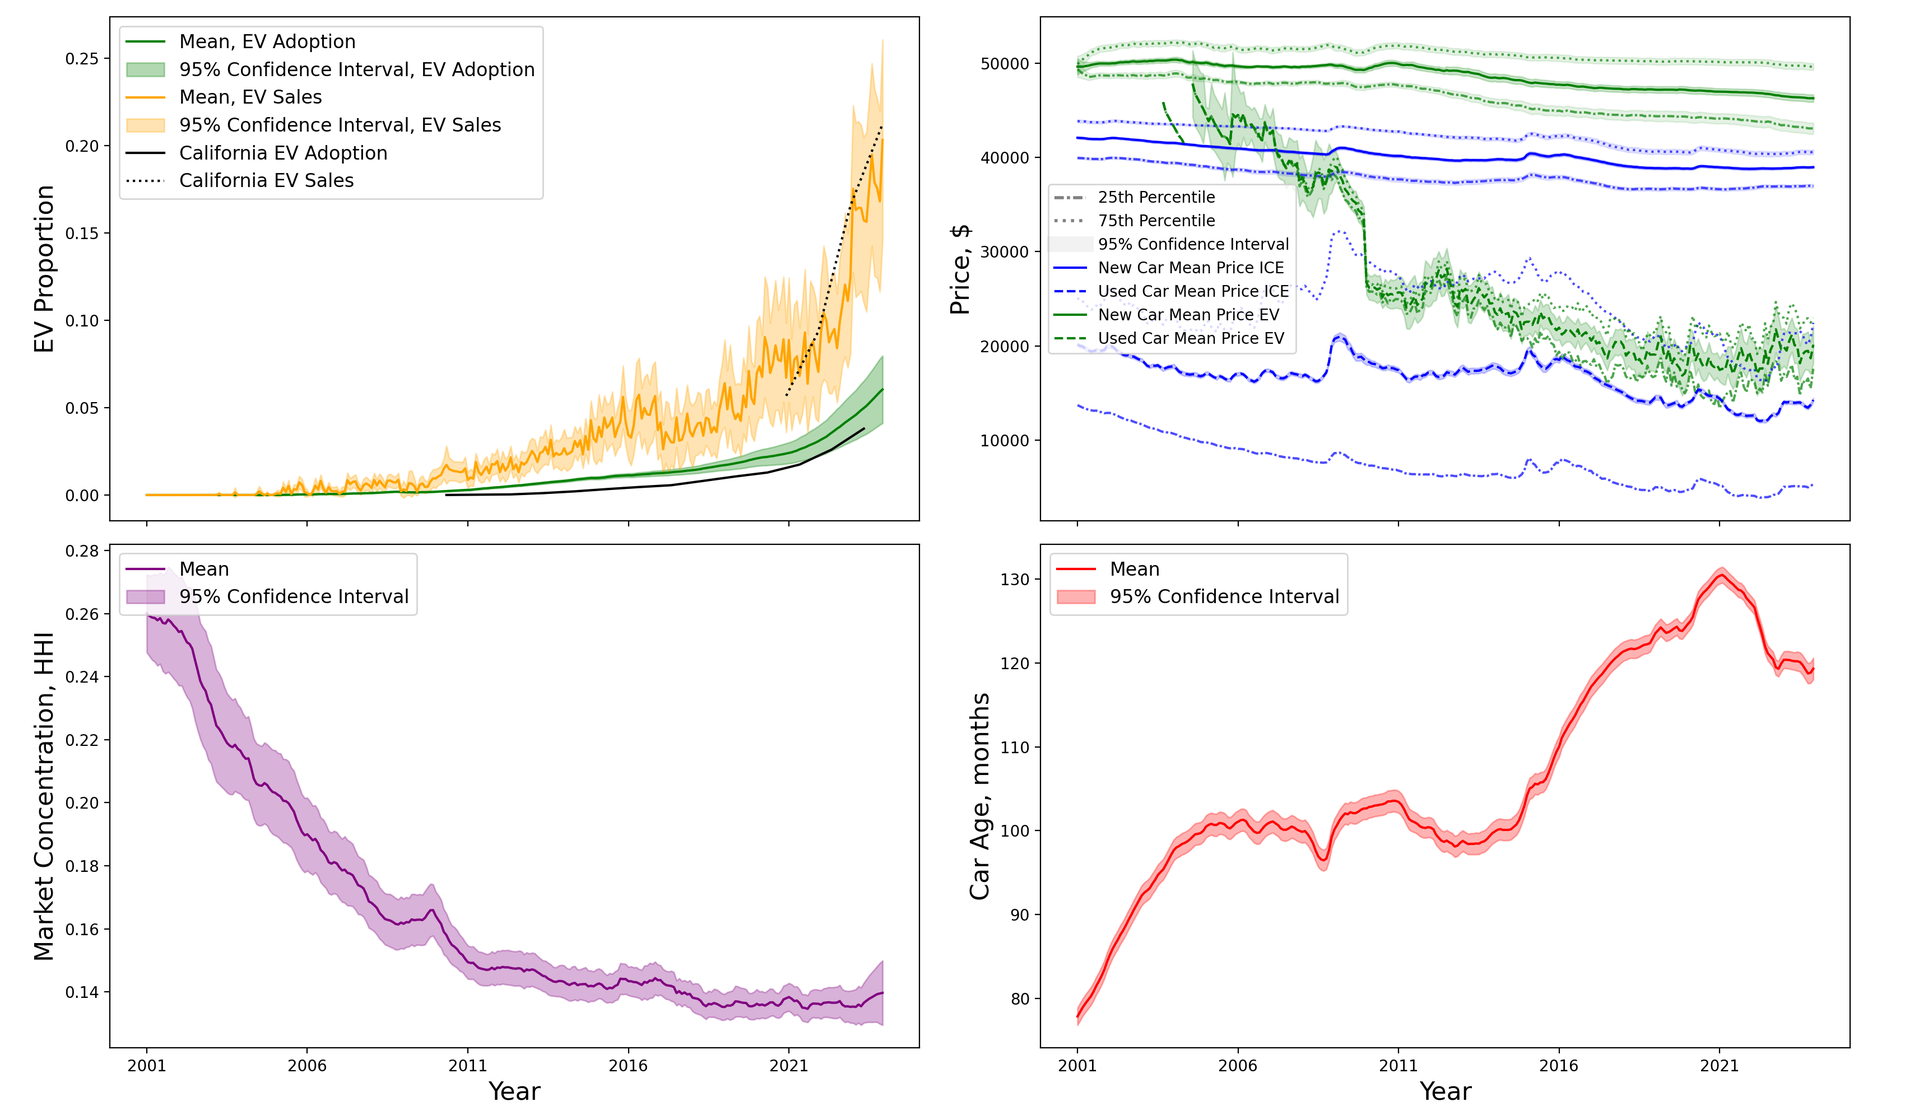
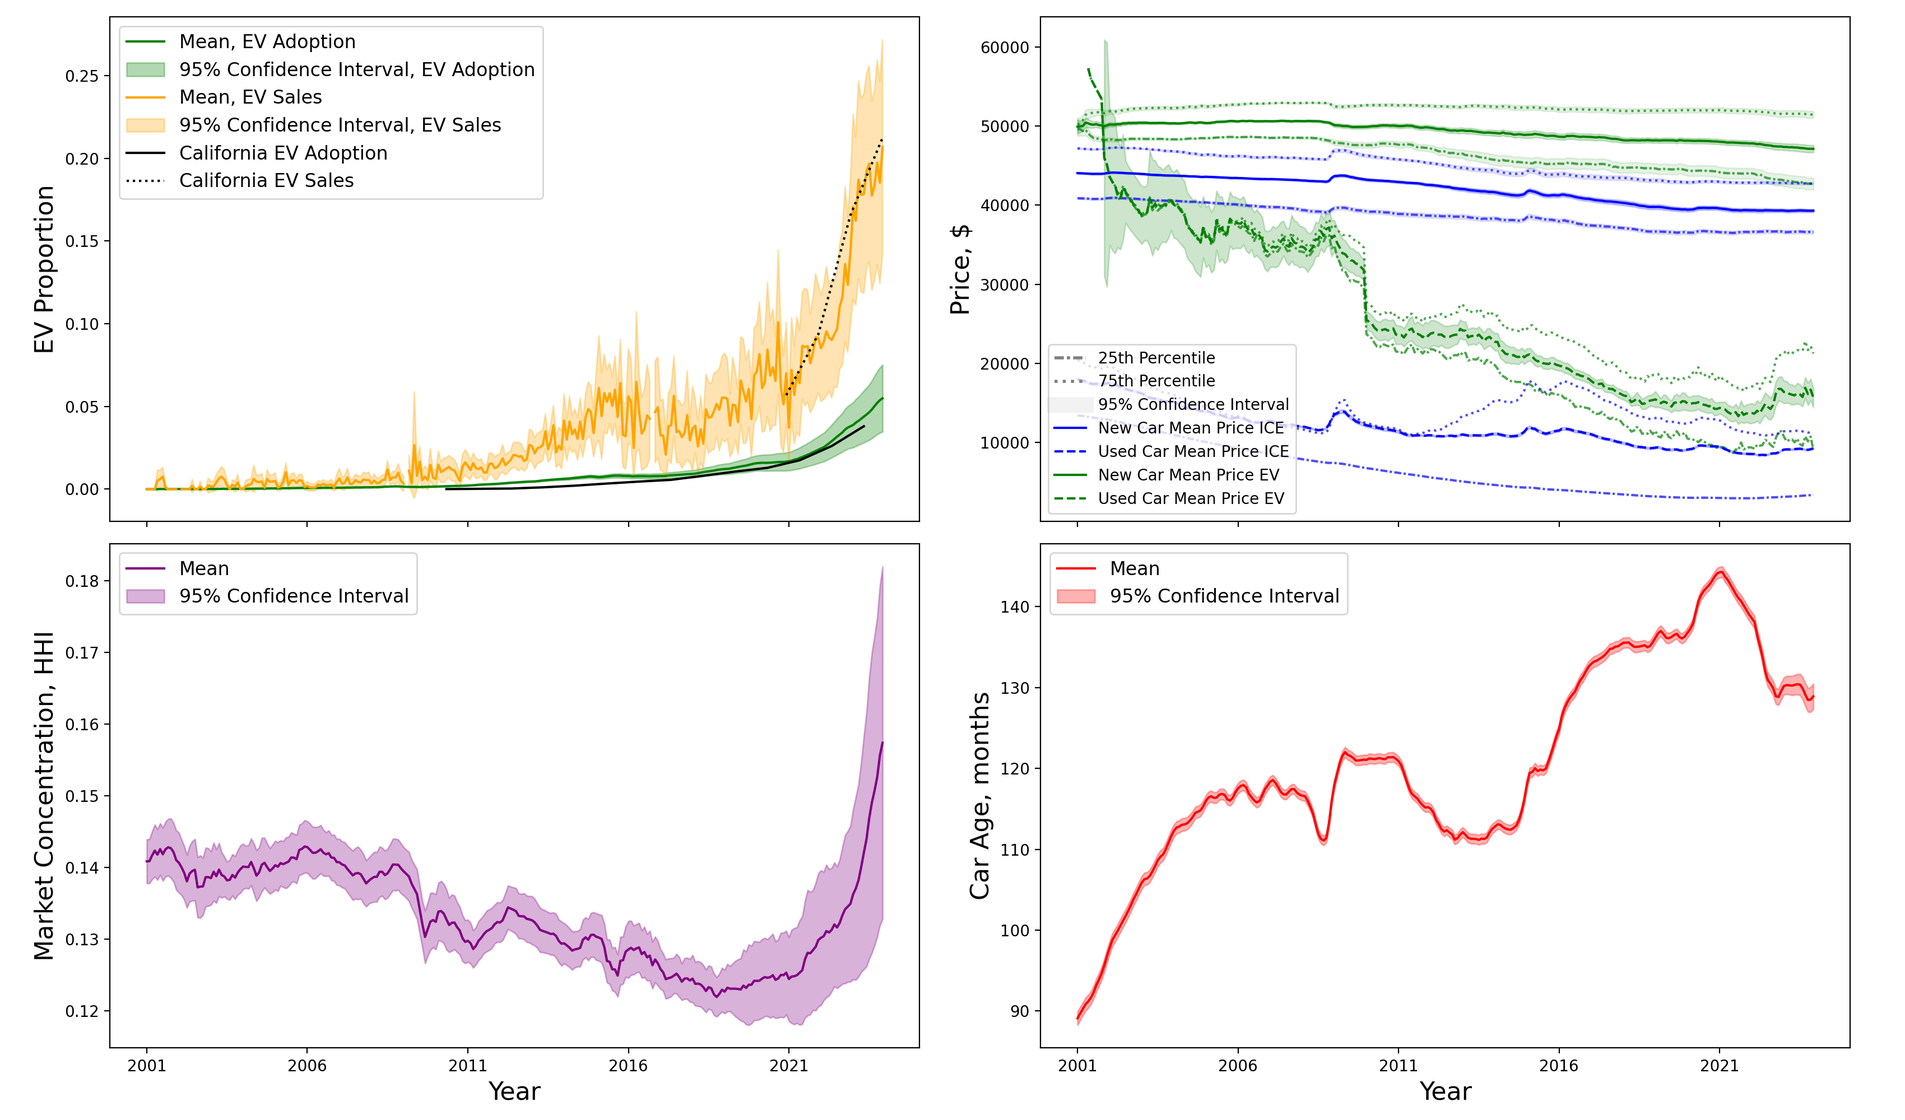
correcting beta, but tis still wrong

diff --git a/package/plotting_data/single_experiment_plot.py b/package/plotting_data/single_experiment_plot.py
@@ -33,6 +33,42 @@ def save_and_show(fig, fileName, plot_name, dpi=300, annotation_height_prop= [0.
     ensure_directory_exists(save_path)
     fig.savefig(f"{save_path}/{plot_name}.png", dpi=dpi, format="png")
 
+# Income deciles are an ORDERED group, so they get a sequential single-hue ramp
+# light (poorest) to dark (richest), not a categorical or rainbow scale: the
+# reader has to be able to see the income gradient itself, not just tell the
+# lines apart. The range is clipped away from the extremes of the ramp so the
+# lightest line stays visible on white and the darkest is not pure black.
+INCOME_DECILE_CMAP = "Blues"
+INCOME_DECILE_RAMP_RANGE = (0.28, 0.95)
+
+
+def income_decile_colours(num_deciles):
+    """Sequential colours for the income deciles, poorest (light) first."""
+    cmap = plt.get_cmap(INCOME_DECILE_CMAP)
+    return [cmap(x) for x in np.linspace(*INCOME_DECILE_RAMP_RANGE, num_deciles)]
+
+
+def get_ev_adoption_by_income_decile(base_params, social_network, time_series):
+    """
+    EV adoption rate per income decile over the post-burn-in period.
+
+    Returns:
+        tuple: (time axis, (T x num_deciles) array with the poorest decile in
+        column 0), or (None, None) when the run predates the income-decile
+        series, so callers can fall back or skip rather than raise.
+    """
+    history = getattr(social_network, "history_ev_adoption_rate_income_decile", None)
+    if not history:
+        return None, None
+
+    decile_series = np.asarray(history)[base_params["duration_burn_in"]:]
+    # Trim to the shorter of the two: the time axis is derived from the
+    # controller's own series, and a run saved with a different compression
+    # factor need not match it exactly.
+    n = min(len(time_series), len(decile_series))
+    return time_series[:n], decile_series[:n]
+
+
 def add_vertical_lines(ax, base_params, color='black', linestyle='--', annotation_height_prop=[0.2, 0.2, 0.2, 0.2]):
     burn_in = base_params["duration_burn_in"]
     no_carbon_price = base_params["duration_calibration"]
@@ -138,8 +174,21 @@ def plot_ev_consider_adoption_bought_rate(base_params,social_network, firm_manag
     ax.plot(time_yearly,EV_stock_prop_2010_23, label = "California data", linestyle= "dashed", color = "orange")
     ax.plot(time_series, social_network.history_consider_ev_rate[base_params["duration_burn_in"]:], label = "Consider", color = "blue")
     ax.plot(time_series, social_network.history_ev_adoption_rate[base_params["duration_burn_in"]:], label = "Adopt", color = "green")
-    ax.plot(time_series, social_network.history_ev_adoption_rate_top[base_params["duration_burn_in"]:], label = "Adopt Rich", color = "orange")
-    ax.plot(time_series, social_network.history_ev_adoption_rate_bottom[base_params["duration_burn_in"]:], label = "Adopt Poor", color = "black")
+    # Rich and poor by INCOME decile rather than by beta percentile. The two
+    # lines are the ends of the same sequential ramp used by
+    # plot_ev_adoption_by_income_decile, so light reads as poor and dark as rich
+    # consistently across the two figures. See that function for all ten.
+    decile_time, decile_series = get_ev_adoption_by_income_decile(base_params, social_network, time_series)
+    if decile_series is not None:
+        num_deciles = decile_series.shape[1]
+        end_colours = income_decile_colours(num_deciles)
+        ax.plot(decile_time, decile_series[:, -1], label = f"Adopt richest {100//num_deciles}%", color = end_colours[-1])
+        ax.plot(decile_time, decile_series[:, 0], label = f"Adopt poorest {100//num_deciles}%", color = end_colours[0])
+    else:
+        # Pre-income-decile run: fall back to the beta-percentile series, which
+        # are top decile of beta vs bottom HALF of beta, not deciles.
+        ax.plot(time_series, social_network.history_ev_adoption_rate_top[base_params["duration_burn_in"]:], label = "Adopt Rich (high $\\beta$)", color = "orange")
+        ax.plot(time_series, social_network.history_ev_adoption_rate_bottom[base_params["duration_burn_in"]:], label = "Adopt Poor (low $\\beta$)", color = "black")
     #ax.plot(time_series, firm_manager.history_past_new_bought_vehicles_prop_ev[base_params["duration_burn_in"]:], label = "New cars monthly", color = "grey", linestyle = "--")
     
     # Extract the relevant data after burn-in period
@@ -161,6 +210,61 @@ def plot_ev_consider_adoption_bought_rate(base_params,social_network, firm_manag
     ax.legend()
     format_plot(ax, "EV Adoption Rate Over Time", "Time Step", "EV Adoption Rate", legend=False)
     save_and_show(fig, fileName, "plot_ev_consider_adoption_bought_rate", dpi)
+
+
+def plot_ev_adoption_by_income_decile(base_params, social_network, time_series, fileName, dpi=300, annotation_height_prop= [0.5, 0.5, 0.5]):
+    """
+    EV adoption rate within each income decile, poorest (light) to richest (dark).
+
+    The point of the figure is the SIGN OF THE GRADIENT: if the dark lines sit
+    below the light ones, richer users are adopting less than poorer ones. Ten
+    ordered groups get a sequential single-hue ramp and a colourbar rather than a
+    ten-entry legend, with the two end deciles labelled directly so identity is
+    never carried by colour alone.
+    """
+    decile_time, decile_series = get_ev_adoption_by_income_decile(base_params, social_network, time_series)
+    if decile_series is None:
+        print("No income-decile EV adoption data on this run, skipping plot_ev_adoption_by_income_decile.")
+        return
+
+    num_deciles = decile_series.shape[1]
+    colours = income_decile_colours(num_deciles)
+
+    fig, ax = plt.subplots(figsize=(10, 6))
+    for d in range(num_deciles):
+        ax.plot(decile_time, decile_series[:, d], color=colours[d], linewidth=2)
+
+    # Direct labels on the two ends, at their own final value. Label text is ink
+    # rather than the series colour: the lightest step is legible as a 2px line
+    # but not as 9pt text on white, and the line it sits against carries the
+    # identity anyway. clip_on=False so the text survives outside the axes.
+    for d, text in ((0, "poorest 10%"), (num_deciles - 1, "richest 10%")):
+        ax.annotate(
+            text,
+            xy=(decile_time[-1], decile_series[-1, d]),
+            xytext=(5, 0), textcoords="offset points",
+            va="center", ha="left", fontsize=9, color="#333333", clip_on=False,
+        )
+
+    # Colourbar as the legend for the ordered groups.
+    scalar_map = cm.ScalarMappable(
+        cmap=mcolors.ListedColormap(colours),
+        norm=mcolors.Normalize(vmin=0.5, vmax=num_deciles + 0.5),
+    )
+    cbar = fig.colorbar(scalar_map, ax=ax, ticks=[1, num_deciles])
+    cbar.set_label("Income decile")
+    cbar.ax.set_yticklabels(["1 (poorest)", f"{num_deciles} (richest)"])
+
+    add_vertical_lines(ax, base_params, annotation_height_prop=annotation_height_prop)
+    format_plot(ax, "EV Adoption Rate by Income Decile", "Time Step", "EV Adoption Rate", legend=False)
+    # Room on the right for the direct labels, set on the axis rather than via
+    # margins so it is not eaten by the colourbar's share of the figure width.
+    x_first, x_last = decile_time[0], decile_time[-1]
+    x_span = x_last - x_first
+    # Small left pad too, so the burn-in marker's rotated label does not sit on
+    # top of the y axis.
+    ax.set_xlim(x_first - 0.03*x_span, x_last + 0.16*x_span)
+    save_and_show(fig, fileName, "plot_ev_adoption_by_income_decile", dpi)
 
 
 def plot_prop_EV_on_sale(base_params,firm_manager, fileName, dpi=300, annotation_height_prop= [0.5, 0.5, 0.5]):
@@ -2024,6 +2128,7 @@ def main(fileName, dpi=300):
     EV_stock_prop_2010_23 = calibration_data_output["EV Prop"]
 
     plot_ev_consider_adoption_bought_rate(base_params, social_network,firm_manager, time_series, fileName, EV_stock_prop_2010_23, dpi)
+    plot_ev_adoption_by_income_decile(base_params, social_network, time_series, fileName, dpi)
     plot_total_utility(base_params,social_network, time_series, fileName, dpi)
     plot_history_count_buy_ratio(base_params, social_network, fileName, dpi, annotation_height_prop=[0.5, 0.5, 0.5])
     plot_history_car_age(base_params, social_network, time_series,fileName, dpi)

diff --git a/package/model/controller.py b/package/model/controller.py
@@ -318,11 +318,15 @@ class Controller:
         #BETA
         self.gen_beta()
 
-        self.parameters_social_network["beta_vec"] = self.beta_vec 
-        self.parameters_social_network["gamma_vec"] = self.gamma_vec 
-        self.parameters_social_network["chi_vec"] = self.chi_vec 
-        self.parameters_social_network["nu_vec"] = self.nu_vec 
+        self.parameters_social_network["beta_vec"] = self.beta_vec
+        self.parameters_social_network["gamma_vec"] = self.gamma_vec
+        self.parameters_social_network["chi_vec"] = self.chi_vec
+        self.parameters_social_network["nu_vec"] = self.nu_vec
         self.parameters_social_network["d_vec"] = self.d_vec
+        # Aligned with beta_vec agent-for-agent (see gen_beta). Used only for
+        # reporting distributional outcomes by income decile; nothing in the
+        # choice or pricing logic reads it, so it changes no model behaviour.
+        self.parameters_social_network["income_vec"] = self.income_vec
 
         self.beta_median = np.median(self.beta_vec)
         self.gamma_median = np.median(self.gamma_vec)
@@ -438,17 +442,53 @@ class Controller:
 
     def gen_beta(self):
         """
-        Generate beta_vec reflecting consumer quality sensitivity based on income.
-        Inverse relationship to income distribution drawn from a log-normal.
+        Generate beta_vec, the dollar willingness to pay for car quality, from
+        the income distribution drawn from a log-normal.
+
+        beta_i is PROPORTIONAL to income: beta_i/median_beta = income_i/median_income,
+        so a richer agent has a higher willingness to pay for quality. This is
+        the mapping the manuscript specifies (Section "Calibration": "we
+        distribute this value according to the Californian income distribution,
+        assigning a higher willingness to pay to richer agents"; Table of
+        parameters: "greater beta is richer car user"; supplementary: "in such
+        a way that the same proportion is maintained").
+
+        This previously computed the reciprocal, median_income/income_i, which
+        assigned the HIGHEST quality willingness to pay to the POOREST agents.
+        Note that it was a no-op for every model output: `incomes` is local and
+        income enters the model nowhere else, beta_vec is shuffled below so even
+        the ordering link to the income draw is discarded, and the reciprocal of
+        a log-normal is log-normal with the same sigma -- so both forms draw
+        beta_vec from the same distribution, and "rich" in the outputs is
+        defined as high beta (see socialNetworkUsers.beta_rich) rather than as
+        high income. Results therefore differ only by Monte Carlo noise. The
+        point of the change is that the individual-level mapping now matches
+        the documented one, which any later income-correlated parameter (nu,
+        gamma, d) needs in order to carry the right sign.
         """
         #BETA
         self.beta_multiplier = self.parameters_social_network.get("beta_multiplier", 1)#PURPOSE IS TO TEST THE ROLE OF BETA DISTRIBUTIONS
-        median_beta = self.calc_beta_median()*self.beta_multiplier 
-        #GIVEN THAT YOU DO MEDIAN INCOME/ INCOME, DONT NEED TO SCALE INCOME
+        median_beta = self.calc_beta_median()*self.beta_multiplier
+        #GIVEN THAT YOU DO INCOME/MEDIAN INCOME, DONT NEED TO SCALE INCOME
         incomes = lognorm.rvs(s=self.parameters_social_network["income_sigma"], scale=np.exp(self.parameters_social_network["income_mu"]), size=self.num_individuals, random_state=self.random_state_inputs)
         median_income = np.median(incomes)
-        self.beta_vec = median_beta*(median_income/incomes)
-        self.random_state_inputs.shuffle(self.beta_vec)# Shuffle to randomize the order of agents
+        beta_unshuffled = median_beta*(incomes/median_income)
+
+        # Shuffle to randomise the order of agents, i.e. to decorrelate beta
+        # from an agent's index and so from its position in the social network.
+        # Drawn as an explicit permutation rather than shuffling beta_vec in
+        # place so that the SAME permutation can be applied to incomes, leaving
+        # income_vec[i] as the income of the agent whose quality willingness to
+        # pay is beta_vec[i]. Without this the income draw is discarded and
+        # there is no agent-level income to report distributional outcomes on.
+        # RandomState.permutation(n) is arange(n) followed by the same
+        # Fisher-Yates pass that shuffle() performs, and a shuffle is a pure
+        # permutation of positions independent of the array's contents, so
+        # beta_vec is bit-for-bit what the in-place shuffle produced and the
+        # random stream is left in exactly the same state.
+        perm = self.random_state_inputs.permutation(self.num_individuals)
+        self.beta_vec = beta_unshuffled[perm]
+        self.income_vec = incomes[perm]
 
         self.num_beta_segments = self.parameters_firm_manager["num_beta_segments"]
         # Calculate the bin edges using quantiles
@@ -463,12 +503,16 @@ class Controller:
         """
         Generate a list of beta values for n agents based on quintile incomes.
         Beta for each quintile is calculated as:
-            beta = 1 * (lowest_quintile_income / quintile_income)
-        
+            beta = median_beta * (quintile_income / median_quintile_income)
+
+        Proportional to income, i.e. the same mapping as gen_beta -- see the
+        note in that method's docstring. Currently unused; kept in sync so it
+        cannot reintroduce the inverted mapping if it is ever called.
+
         Args:
             n (int): Total number of agents.
             quintile_incomes (list): List of incomes for each quintile (from lowest to highest).
-            
+
         Returns:
             list: A list of beta values of length n.
         """
@@ -476,7 +520,7 @@ class Controller:
 
         median_income = quintile_incomes[2]
 
-        beta_vals = [median_beta*median_income/income for income in quintile_incomes]
+        beta_vals = [median_beta*income/median_income for income in quintile_incomes]
         
         # Assign proportions for each quintile (evenly split 20% each)
         proportions = [0.2] * len(quintile_incomes)

diff --git a/package/model/socialNetworkUsers.py b/package/model/socialNetworkUsers.py
@@ -14,6 +14,10 @@ from package.model.secondHandMerchant import _attr_array
 # ranges could ever legitimately produce.
 MAX_LIFECYCLE_COST_TERM = 1e8
 
+# Number of income groups used for distributional reporting. See
+# Social_Network.init_income_deciles.
+NUM_INCOME_DECILES = 10
+
 class Social_Network:
     def __init__(self, parameters_social_network: dict, parameters_vehicle_user: dict):
         """
@@ -42,6 +46,12 @@ class Social_Network:
         self.nu_vec = parameters_social_network["nu_vec"]
 
         self.d_vec = parameters_social_network["d_vec"]
+
+        # Agent income, aligned with beta_vec (see controller.gen_beta). Read
+        # only for distributional reporting -- no choice or pricing logic uses
+        # it. Optional so that parameter dicts written before it existed still
+        # load; the income-decile time series are then simply not recorded.
+        self.income_vec = parameters_social_network.get("income_vec", None)
 
         self.alpha = parameters_social_network["alpha"]
         self.zeta = parameters_social_network["zeta"]
@@ -72,6 +82,8 @@ class Social_Network:
         self.num_rich = self.num_individuals*0.1
 
         self.gamma_median = np.median(self.gamma_vec)
+
+        self.init_income_deciles()
 
         self.emissions_cumulative = 0
         self.emissions_cumulative_production = 0
@@ -144,6 +156,39 @@ class Social_Network:
         self.save_timeseries_data_state = parameters_social_network["save_timeseries_data_state"]
         self.compression_factor_state = parameters_social_network["compression_factor_state"]
         self.carbon_price =  parameters_social_network["carbon_price"]
+
+    def init_income_deciles(self):
+        """
+        Partition the population into income deciles for distributional reporting.
+
+        Builds self.income_decile_idx, a list of NUM_INCOME_DECILES index arrays
+        ordered poorest first, so decile 0 is the bottom 10% of incomes and
+        decile 9 the top 10%. Computed once: income is fixed for the whole run.
+
+        Deciles are cut on the empirical quantiles of income_vec and assigned
+        with searchsorted, so the group sizes are equal up to ties and up to
+        num_individuals not dividing by ten exactly.
+
+        This replaces beta percentiles as the basis for "rich" and "poor" in the
+        reported adoption series. beta is a willingness to pay for quality that
+        happens to be proportional to income (controller.gen_beta), so ranking
+        on it gives the same ordering today, but it would stop doing so the
+        moment any other parameter is made income-dependent, or beta is given
+        an idiosyncratic taste component. Income is the primitive, so report on
+        income.
+
+        Sets self.income_decile_idx to None when no income_vec was supplied,
+        which the recording path checks.
+        """
+        if self.income_vec is None:
+            self.income_decile_idx = None
+            return
+
+        edges = np.quantile(self.income_vec, np.linspace(0, 1, NUM_INCOME_DECILES + 1)[1:-1])
+        decile_of_agent = np.searchsorted(edges, self.income_vec, side="right")
+        self.income_decile_idx = [
+            np.flatnonzero(decile_of_agent == d) for d in range(NUM_INCOME_DECILES)
+        ]
 
     def init_network_settings(self, parameters_social_network):
         """
@@ -1282,6 +1327,11 @@ class Social_Network:
         self.history_ev_adoption_rate = []
         self.history_ev_adoption_rate_top = []
         self.history_ev_adoption_rate_bottom = []
+        # One list of NUM_INCOME_DECILES adoption rates per recorded timestep,
+        # poorest decile first. The beta-based _top/_bottom series above are
+        # kept as they are, because existing analysis scripts read them
+        # (see package/analysis/low_policy_intensity_gen.py).
+        self.history_ev_adoption_rate_income_decile = []
         self.history_consider_ev_rate = []
         self.history_consider_ev = []
         self.history_ICE_users = []
@@ -1482,6 +1532,14 @@ class Social_Network:
         ev_adoption_rate_bottom = np.mean([i for i, j in zip(self.ev_adoption_vec, self.beta_vec) if j < self.beta_median])
         self.history_ev_adoption_rate_top.append(ev_adoption_rate_top)
         self.history_ev_adoption_rate_bottom.append(ev_adoption_rate_bottom)
+
+        # EV adoption within each income decile, poorest first. The decile index
+        # arrays are fixed for the run, so this is one masked mean per decile.
+        if self.income_decile_idx is not None:
+            ev_adoption_vec = np.asarray(self.ev_adoption_vec)
+            self.history_ev_adoption_rate_income_decile.append(
+                [float(np.mean(ev_adoption_vec[idx])) for idx in self.income_decile_idx]
+            )
 
         self.history_consider_ev_rate.append(np.mean(self.consider_ev_vec))
         self.history_consider_ev.append(self.consider_ev_vec)

diff --git a/package/paper_figures/build_figures.py b/package/paper_figures/build_figures.py
@@ -55,7 +55,7 @@ RUNS = {
     # ---- main manuscript -------------------------------------------------
     # Figure 2 (validation dashboard) and supplementary Figure 5 (car qualities)
     # both come out of the same calibration run.
-    "calibration": "results/calibration_gen_13_31_54__12_08_2026",
+    "calibration": "results/calibration_gen_09_30_13__13_08_2026",
     # Figure 3 -- package/analysis/vary_single_policy_gen.py
     "single_policies": "results/vary_single_policy_gen_19_53_15__11_08_2026",
     # Figure 4 -- package/analysis/endogenous_policy_intensity_pair_gen.py
@@ -63,13 +63,13 @@ RUNS = {
     # Figure 5 -- package/analysis/low_policy_intensity_gen.py
     "low_intensity": "",
     # Figure 6 -- package/generating_data/single_experiment_gen.py
-    "single_experiment": "results/single_experiment_10_38_01__12_08_2026",
+    "single_experiment": "results/single_experiment_09_42_36__13_08_2026",
     # Figure 7 -- vary_single_param_gen over max_num_cars_prop
     "used_car_capacity": "results/sen_vary_max_num_cars_prop_10_41_12__12_08_2026",
 
     # ---- supplementary material -----------------------------------------
     # Figure 1 -- package/calibration/sbi_single_seed_gen.py
-    "posterior": "results/calibration_gen_13_31_54__12_08_2026",
+    "posterior": "results/calibration_gen_09_30_13__13_08_2026",
     # Figure 6 -- ten vary_single runs, in panel order a-j. Order matters:
     # a alpha, b r, c mu, d kappa, e b_chi, f a_chi, g lambda, h delta,
     # i K_EV, j K_ICE (see supplementary_runs/fig06_local_sensitivity_gen.PANELS).
